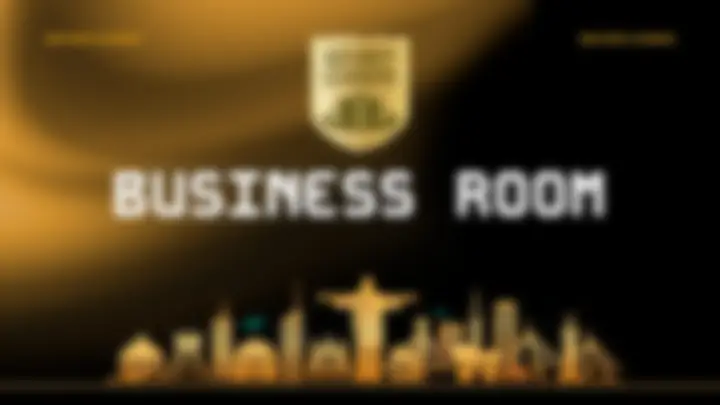
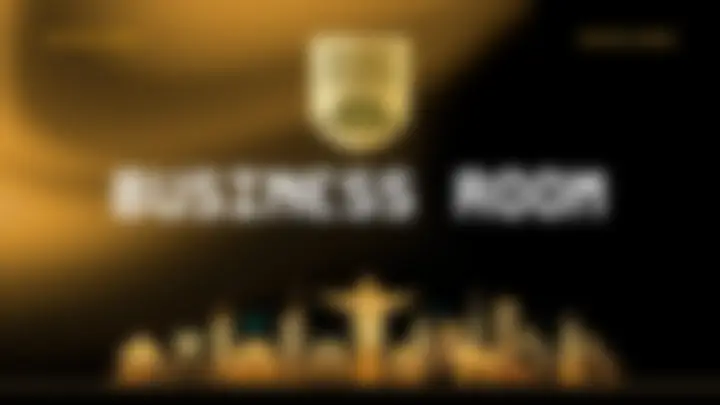
Apresentacoes: centro nitido, laterais desfocadas, tamanho e ritmo da referencia

diff --git a/components/sections/ApresentacoesCarrossel.tsx b/components/sections/ApresentacoesCarrossel.tsx
@@ -53,6 +53,7 @@ export function ApresentacoesCarrossel() {
     const reduzido = window.matchMedia("(prefers-reduced-motion: reduce)").matches;
     let alvo = 0;
     let pos = 0;
+    let vel = 0;
     let ativoAtual = -1;
     let raf = 0;
     let ultimo = performance.now();
@@ -81,7 +82,7 @@ export function ApresentacoesCarrossel() {
         el.style.visibility = "visible";
         el.style.transform = `rotateY(${-d * PASSO}deg)`;
         // Zona morta perto do centro: foca rápido assim que o slide se aproxima.
-        const t = Math.min(1, Math.max(0, (ad - 0.12) / 0.5));
+        const t = Math.min(1, Math.max(0, (ad - 0.3) / 0.45));
         const desfoque = reduzido ? 0 : t * t * (3 - 2 * t);
         el.style.setProperty("--b", desfoque.toFixed(3));
         el.style.setProperty("--o", String(Math.max(0, 1 - Math.max(0, ad - 2.2) * 1.6)));
@@ -92,8 +93,10 @@ export function ApresentacoesCarrossel() {
       const dt = Math.min(0.05, (t - ultimo) / 1000);
       ultimo = t;
       // Parou de rolar: encaixa no slide mais próximo, que fica nítido.
-      const meta = t - ultimaRolagem > 140 ? Math.round(alvo) : alvo;
-      pos += (meta - pos) * (1 - Math.exp(-dt * 12));
+      const meta = t - ultimaRolagem > 250 ? Math.round(alvo) : alvo;
+      const antes = pos;
+      pos += (meta - pos) * (1 - Math.exp(-dt * 4.5));
+      vel = dt > 0 ? (pos - antes) / dt : 0;
       if (Math.abs(meta - pos) < 0.0005) pos = meta;
       desenhar();
       const a = Math.min(N - 1, Math.max(0, Math.round(pos)));
@@ -120,9 +123,20 @@ export function ApresentacoesCarrossel() {
   useEffect(() => {
     const el = palcoRef.current;
     if (!el) return;
-    const ro = new ResizeObserver(() => setEscala(Math.min(1.3, el.clientWidth / (LARGURA * 1.6))));
+    // O tamanho segue a altura da tela (slide central com ~60% dela), limitado pela largura.
+    const calcular = () => {
+      const porAltura = (window.innerHeight * 0.6) / ALTURA;
+      const porLargura = (el.clientWidth * 0.62) / LARGURA;
+      setEscala(Math.max(0.5, Math.min(porAltura, porLargura)));
+    };
+    calcular();
+    const ro = new ResizeObserver(calcular);
     ro.observe(el);
-    return () => ro.disconnect();
+    window.addEventListener("resize", calcular);
+    return () => {
+      ro.disconnect();
+      window.removeEventListener("resize", calcular);
+    };
   }, []);
 
   return (
@@ -131,7 +145,7 @@ export function ApresentacoesCarrossel() {
       id="apresentacoes"
       aria-label="Apresentações criadas pelo estúdio"
       className="relative bg-idv-amarelo text-idv-preto md:h-[var(--altura-secao)]"
-      style={{ ["--altura-secao" as string]: `${100 + (N - 1) * 40}vh` }}
+      style={{ ["--altura-secao" as string]: `${100 + (N - 1) * 47}vh` }}
     >
       <div className="relative overflow-x-clip px-6 py-20 md:sticky md:top-0 md:flex md:h-screen md:flex-col md:justify-center md:py-0 md:px-[clamp(1.5rem,5vw,6rem)]">
         <Cruz className="absolute right-6 top-8 h-5 w-5 text-idv-preto/40 md:right-[clamp(1.5rem,5vw,6rem)] md:top-24" />
@@ -156,7 +170,7 @@ export function ApresentacoesCarrossel() {
 
         {/* Tablet e desktop: carrossel curvo em 3D, girando com a rolagem. */}
         <div ref={palcoRef} className="relative hidden select-none md:block" style={{ height: ALTURA * escala + 40 }}>
-          <div className="absolute inset-0 flex items-center justify-center [perspective:1100px]">
+          <div className="absolute inset-0 flex items-center justify-center [perspective:1000px]">
             <div
               className="relative [transform-style:preserve-3d]"
               style={{ width: LARGURA, height: ALTURA, transform: `scale(${escala}) translateZ(${RAIO}px)` }}
